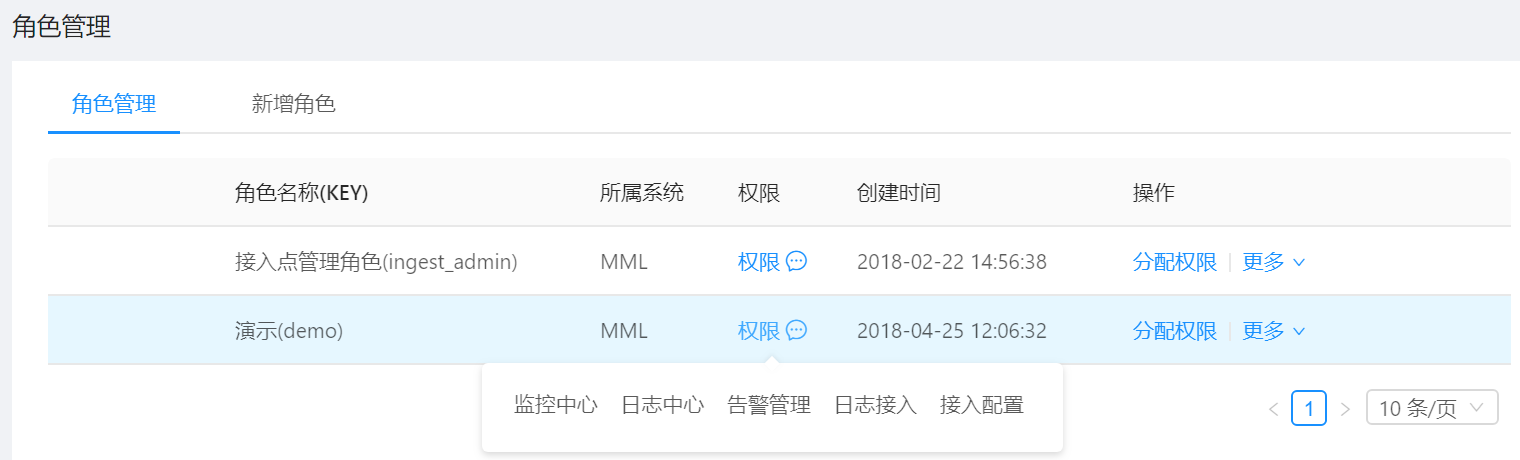
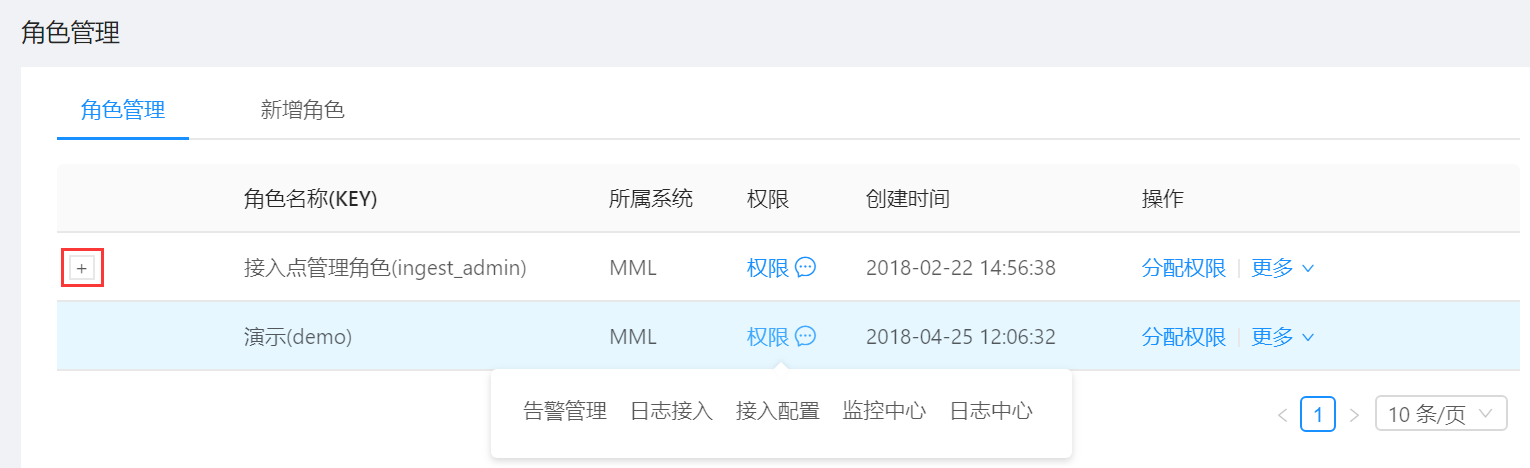
Creates user_guide/fig/6_14.png
Auto commit by GitBook Editor

diff --git a/user_guide/system_settings/role.md b/user_guide/system_settings/role.md
@@ -6,13 +6,13 @@
 
 用户可通过角色管理界面查看角色列表，包括所属系统、创建时间、子角色等。
 
-单击某角色对应的权限图标可查看该角色所拥有的权限。
+将光标停留在“![](/user_guide/fig/6_14.png)”片刻可查看该角色所拥有的权限。
 
 ![](/user_guide/fig/6_10.png)
 
-如果某角色前有加号按钮，则表示该角色为父角色，单击加号，可查看该角色的子角色。
+如果某角色前有加号按钮，则表示该角色为父角色，单击“![](/user_guide/fig/6_12.png)”，可查看该角色的子角色。
 
-
+![](/user_guide/fig/6_13.png)
 
 ##编辑角色
 
